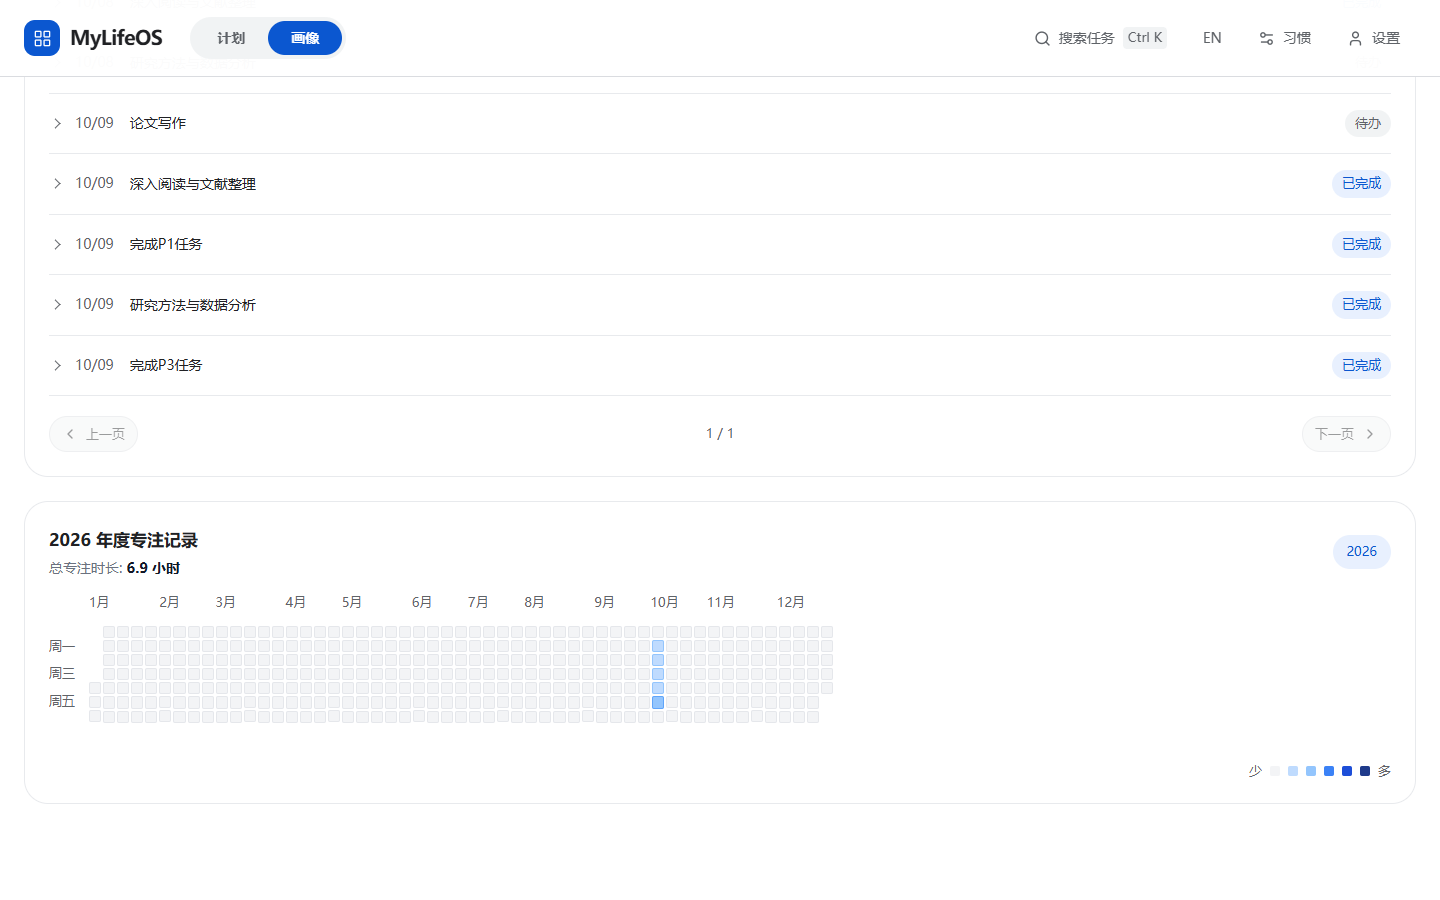
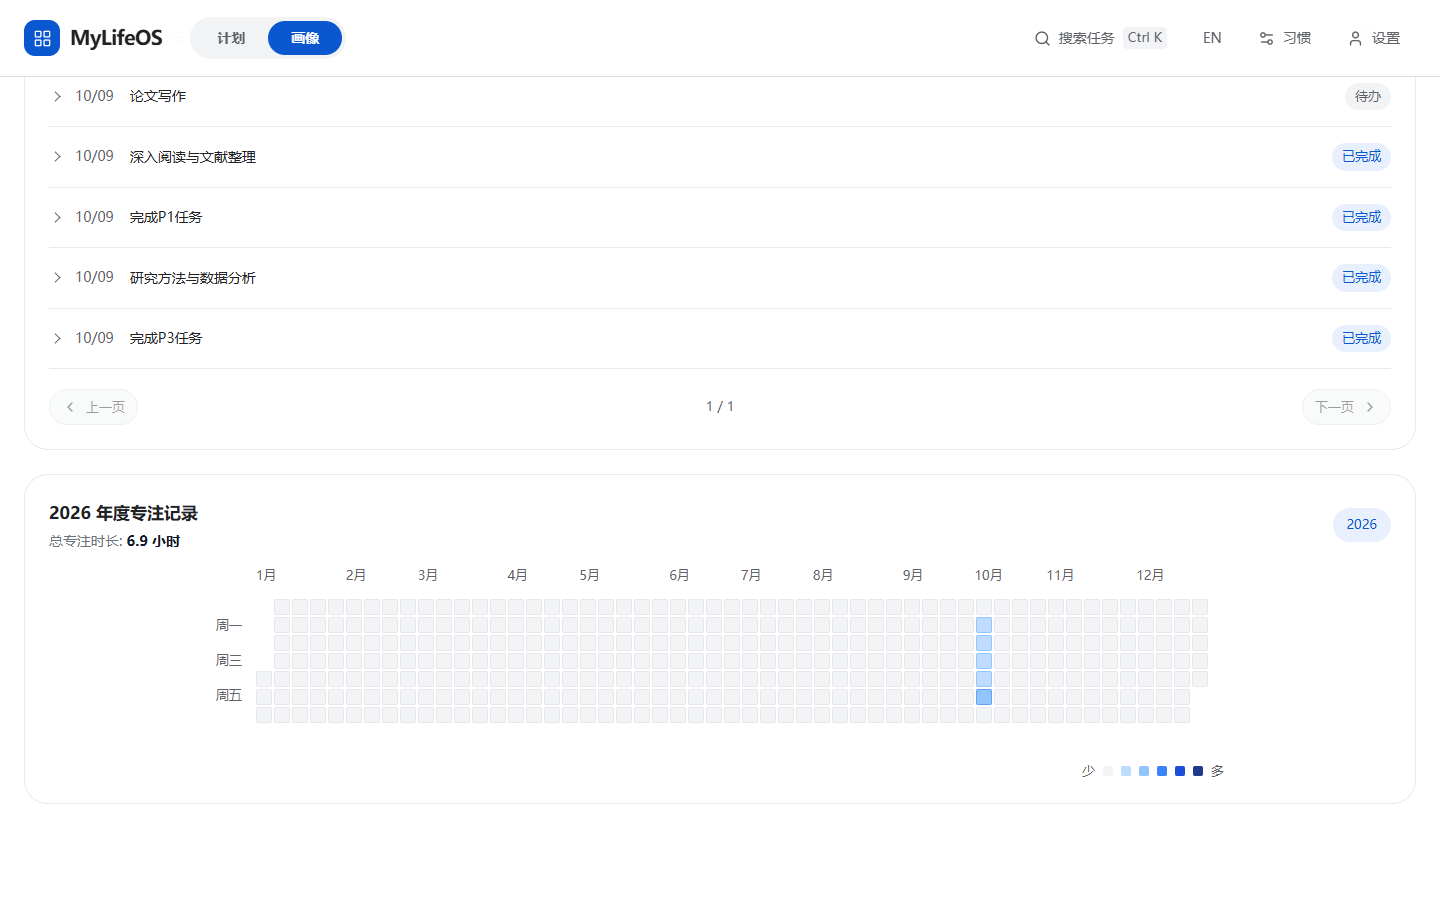
Center annual focus heatmap and balance its square size

diff --git a/src/components/ContributionGraph.tsx b/src/components/ContributionGraph.tsx
@@ -231,7 +231,7 @@ const ContributionGraph: React.FC<ContributionGraphProps> = ({ refreshToken = 0 
         </div>
       </div>
           {/* Legend */}
-          <div className="flex items-center justify-end gap-2 mt-6 profile-activity-label text-xs text-gray-500">
+          <div className="profile-activity-legend flex items-center justify-end gap-2 mt-6 profile-activity-label text-xs text-gray-500">
             <span>{t('less')}</span>
             <div className={`w-[10px] h-[10px] rounded-[2px] ${getColorClass(0, false, false)}`}></div>
             <div className={`w-[10px] h-[10px] rounded-[2px] ${getColorClass(1, false, false)}`}></div>

diff --git a/src/profile.css b/src/profile.css
@@ -675,9 +675,11 @@
   min-width: 0;
   gap: 3px;
 }
-.profile-activity-compact .profile-activity-body {
+.profile-activity-compact .profile-activity-body,
+.profile-activity-compact .profile-activity-legend {
   width: 100%;
-  max-width: 800px;
+  max-width: 1008px;
+  margin-inline: auto;
 }
 .profile-activity-compact .profile-activity-grid,
 .profile-activity-compact .profile-activity-grid > div {

diff --git a/docs/PROFILE_UI.md b/docs/PROFILE_UI.md
@@ -66,6 +66,6 @@
 
 ## Windows年度方块缩小（2026-10-10）
 
-年度专注记录在Windows及浏览器预览中使用紧凑尺寸：图形内容最大宽800px，单格约12px，横纵间距2px；窄窗口保留720px内部宽度和横向滚动。Android不使用此尺寸规则。蓝色分级、日期、统计数据及悬停提示保持原逻辑，卡片与其他区域布局沿用当前方案。
+年度专注记录在Windows及浏览器预览中使用紧凑尺寸：图形内容最大宽1008px，单格约16px，横纵间距2px，整体居中；下方蓝色图例采用相同宽度居中容器；窄窗口保留720px内部宽度和横向滚动。Android不使用此尺寸规则。蓝色分级、日期、统计数据及悬停提示保持原逻辑，卡片与其他区域布局沿用当前方案。
 
-类型检查通过；隔离浏览器检查中英文390／768／1280／1440／1920px，方块等宽高、365个日期、年末滚动可见及页面无横向溢出通过。主Agent查看1440×900和1920×1080截图自检，未新增独立评审或行为测试。证据：`profile-ui/compact-heatmap-desktop.png`与`compact-heatmap-checks.json`，使用虚构隔离数据。
+类型检查通过；隔离浏览器检查中英文390／768／1280／1440／1920px，方块等宽高、图形居中、365个日期、年末滚动可见及页面无横向溢出通过。主Agent查看1440×900和1920×1080截图自检，未新增独立评审或行为测试。证据：`profile-ui/compact-heatmap-desktop.png`与`compact-heatmap-checks.json`，使用虚构隔离数据。
